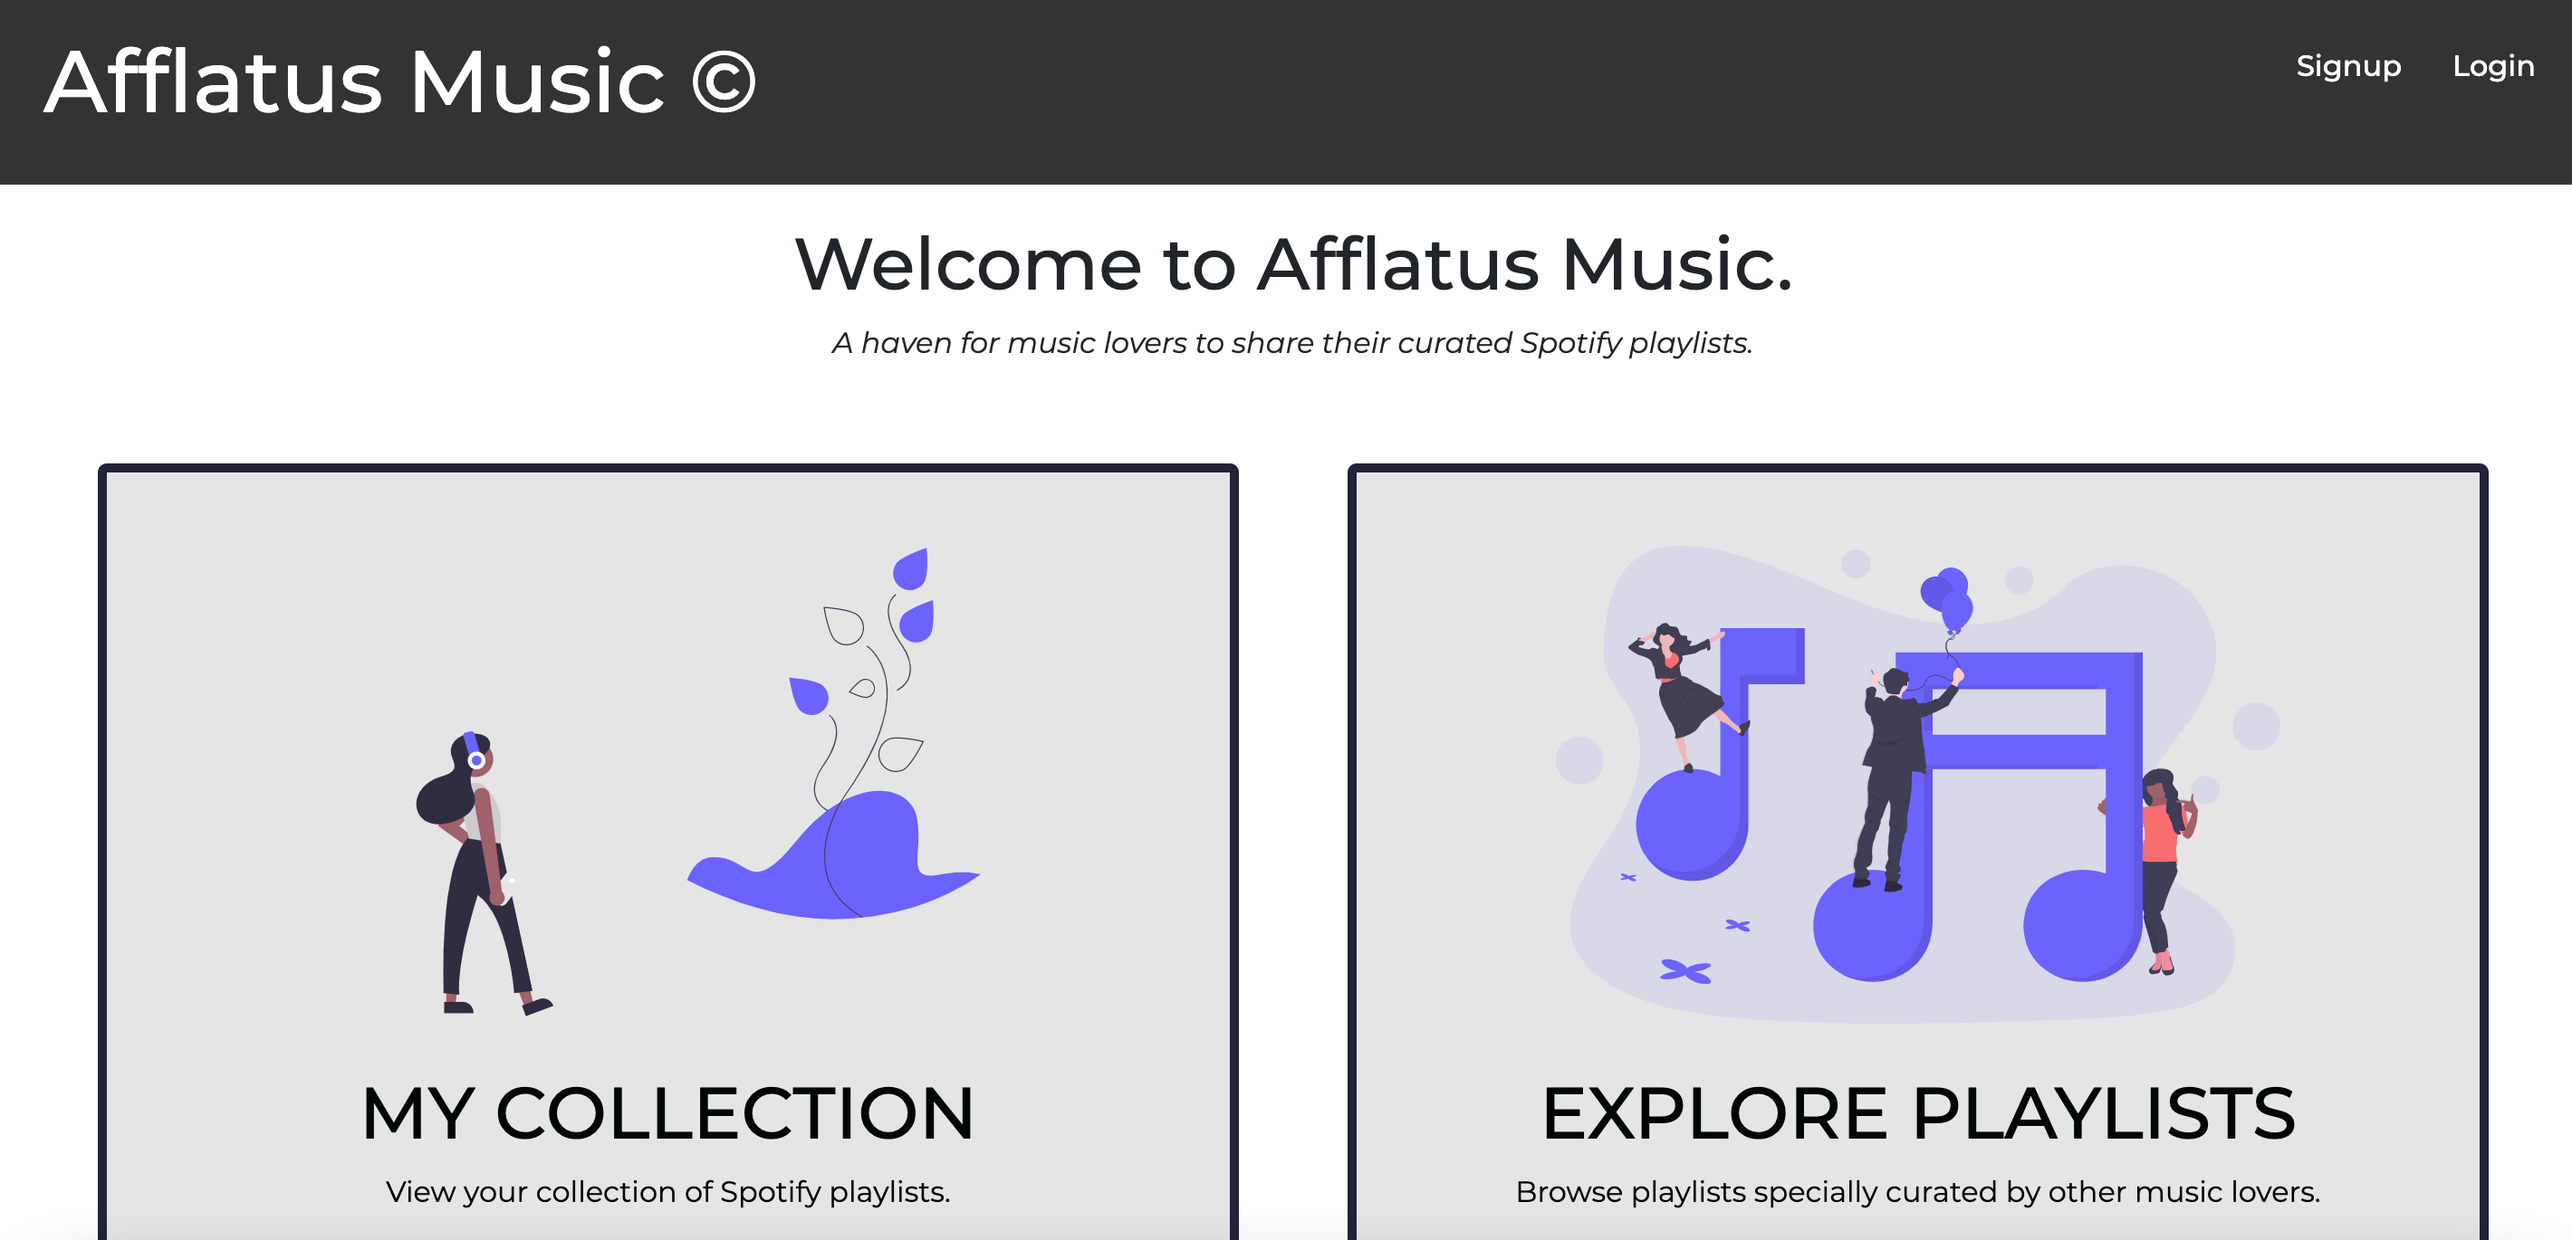
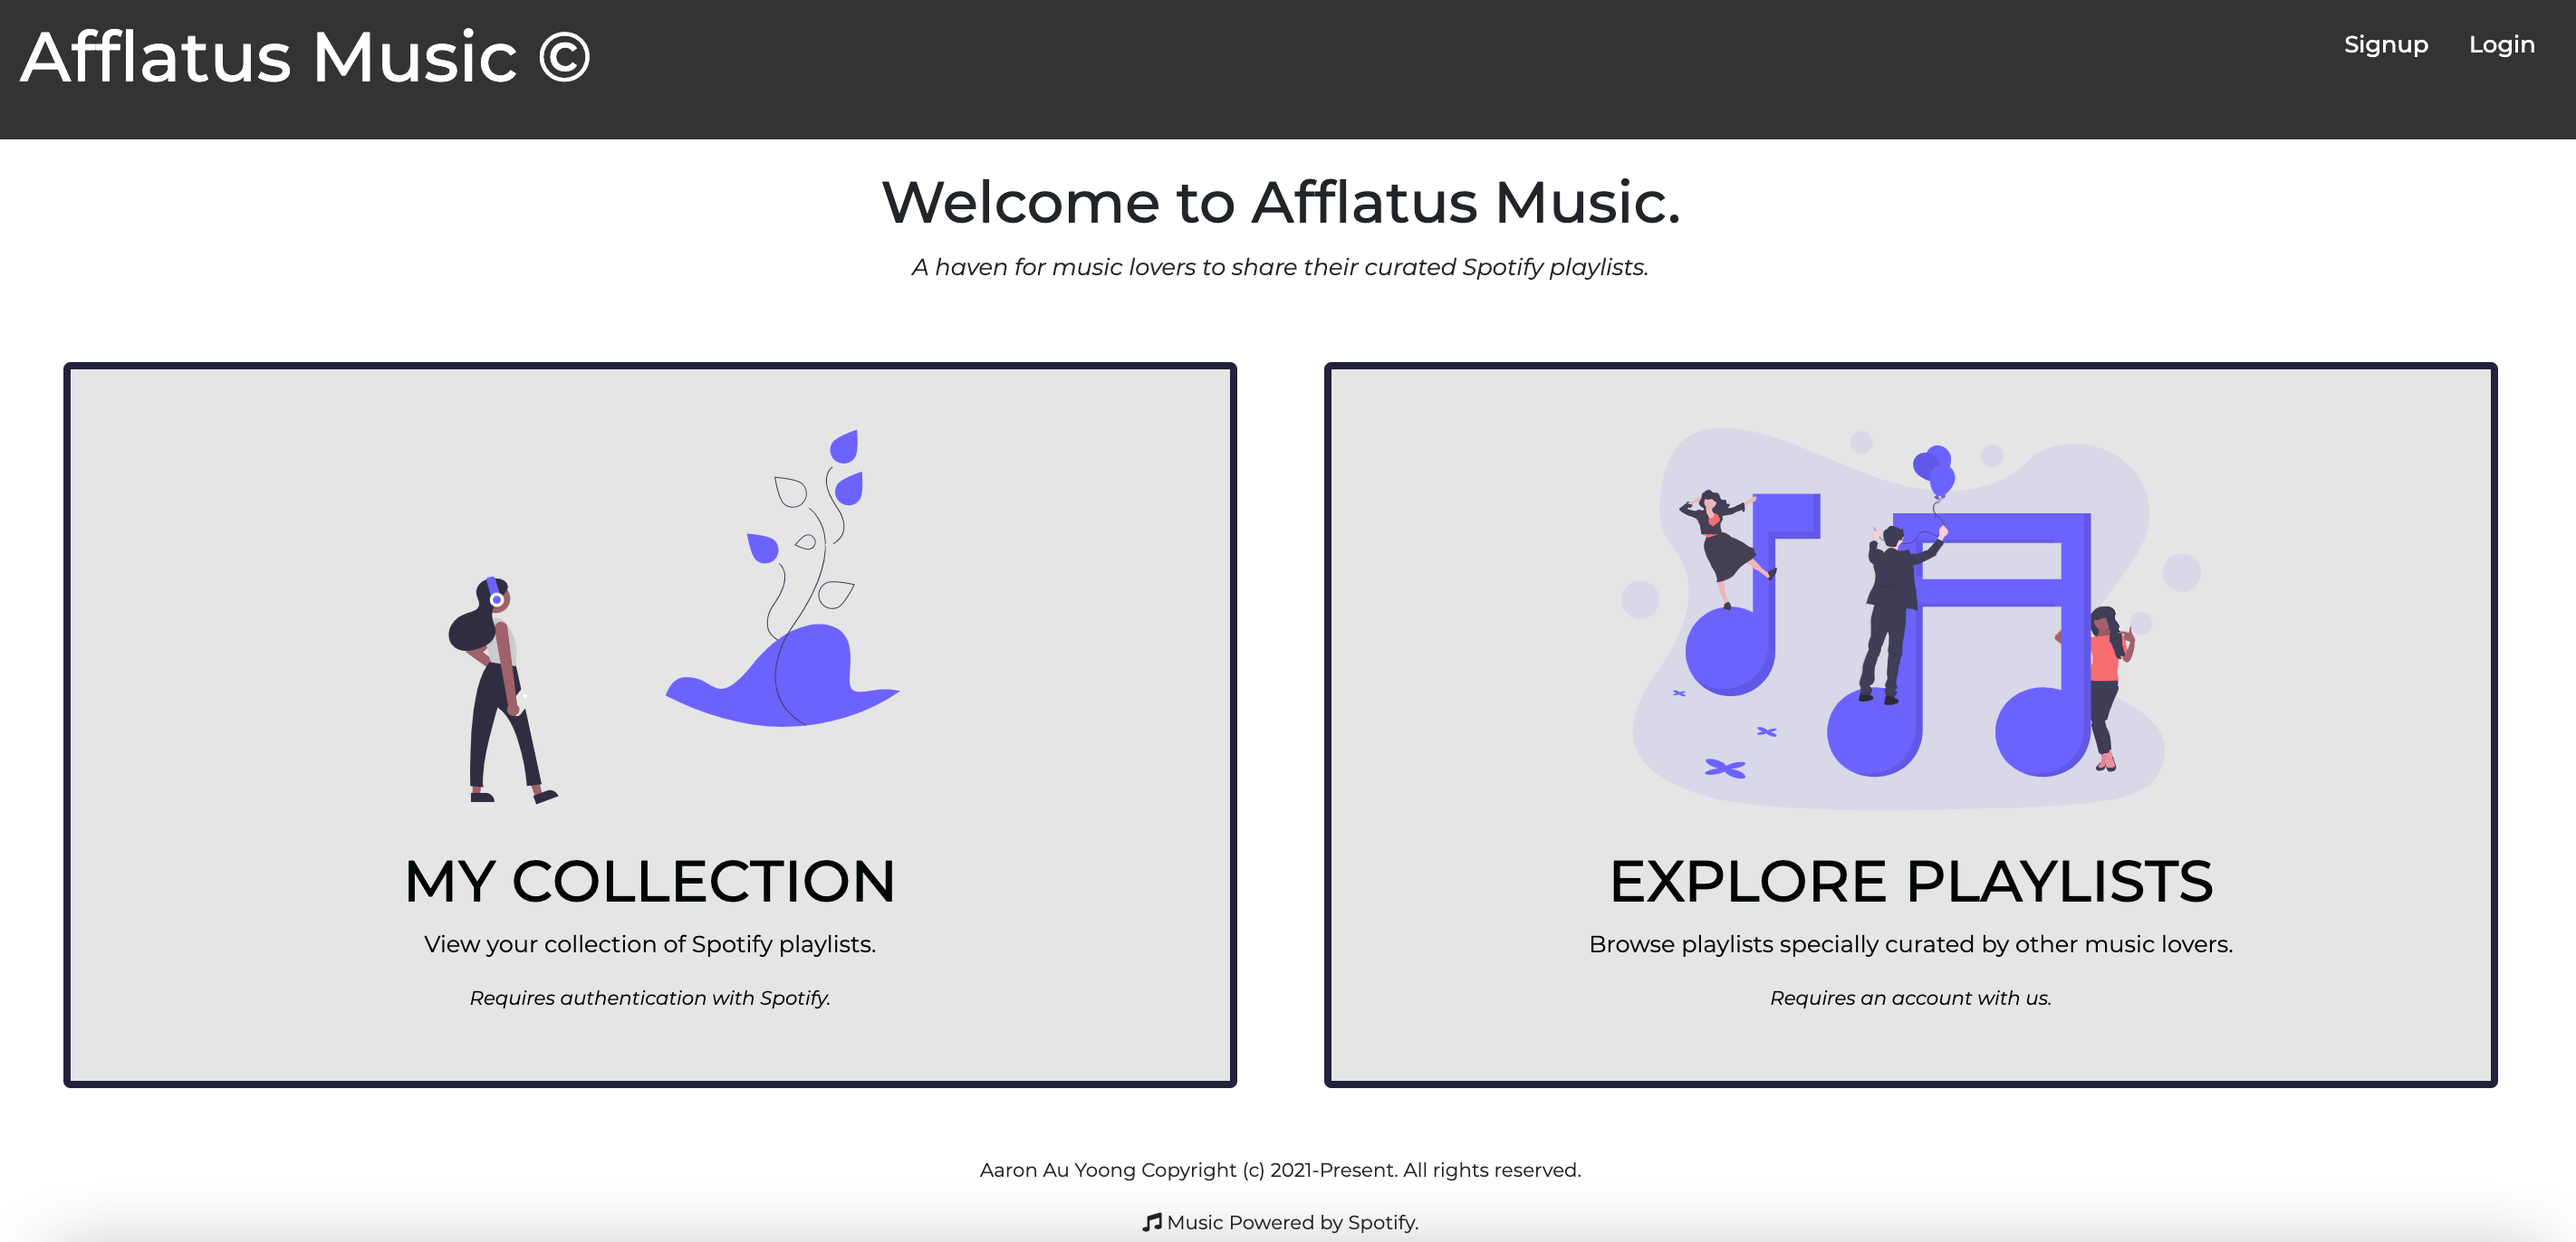
updated image of afflatus music app (previous one was cropped). added afflatus music to list of projects to be displayed on portfolio.

diff --git a/src/components/projects/FeaturedProjects.js b/src/components/projects/FeaturedProjects.js
@@ -2,6 +2,7 @@ import React from 'react';
 import '../../assets/styles/projects.css';
 import '../../assets/styles/custom-styles.css';
 
+import AfflatusMusic from '../../assets/images/afflatus-music.png';
 import GamersHideout from '../../assets/images/gamers-hideout-screenshot.png';
 import MarvelSuperhero from '../../assets/images/marvel-superhero-locator-screenshot.png';
 
@@ -9,6 +10,47 @@ const FeaturedProjects = () => {
     return (
         <div>
             {/* FEATURED PROJECT 1 */}
+            <section className="featured-project">
+                <div className="app-main">
+                    <div>
+                        <h6 className="featured">FEATURED</h6>
+                    </div>
+                    <h2 className="app-header">
+                        Afflatus Music{' '}
+                        <a
+                            className="github-link"
+                            href="https://github.com/aaronauyoong/afflatus-music"
+                        >
+                            <i class="fab fa-github"></i>
+                        </a>
+                    </h2>
+                    <a
+                        className="img-colorize"
+                        href="https://afflatus-music.herokuapp.com/"
+                    >
+                        <img
+                            src={AfflatusMusic}
+                            className="app-image featured-image"
+                            alt="Afflatus Music web app"
+                        />
+                    </a>
+                </div>
+                <div className="app-info">
+                    <p className="app-description">
+                        Afflatus Music is a web application that allows users to
+                        listen to music, view their Spotify playlists, and share
+                        them as posts with other users.
+                    </p>
+                    <div className="language-list">
+                        <p className="language">JavaScript</p>
+                        <p className="language">React JS</p>
+                        <p className="language">Apollo</p>
+                        <p className="language">GraphQL</p>
+                        <p className="language">MongoDB</p>
+                    </div>
+                </div>
+            </section>
+            {/* FEATURED PROJECT 2 */}
             <section className="featured-project">
                 <div className="app-main">
                     <div>
@@ -51,7 +93,7 @@ const FeaturedProjects = () => {
                     </div>
                 </div>
             </section>
-            {/* FEATURED PROJECT 2 */}
+            {/* FEATURED PROJECT 3 */}
             <section className="featured-project">
                 <div className="app-main">
                     <div>
@@ -61,14 +103,14 @@ const FeaturedProjects = () => {
                         Marvel Superhero Locator{' '}
                         <a
                             className="github-link"
-                            href="https://github.com/aaronauyoong/TeamProject-Gamers-Hideout-ReviewSite"
+                            href="https://github.com/aaronauyoong/TeamProject-Marvel-Superhero-Locator"
                         >
                             <i class="fab fa-github"></i>
                         </a>
                     </h2>
                     <a
                         className="img-colorize"
-                        href="https://aaronauyoong.github.io/TeamProject-Marvel-Superhero-Locator/"
+                        href="https://korolyovalara.github.io/TeamProject-Marvel-Superhero-Locator/"
                     >
                         <img
                             src={MarvelSuperhero}
